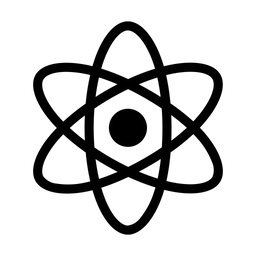
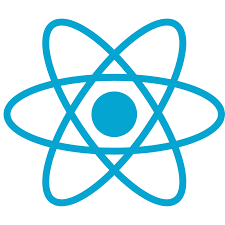
a5 JavaScript sp22

diff --git a/public/tuiter/ExploreScreen/ExploreComponent.js b/public/tuiter/ExploreScreen/ExploreComponent.js
@@ -2,14 +2,51 @@ import PostSummaryList from "../PostSummaryList/index.js";
 
 const ExploreComponent = () => {
     return(`
-            <div class="row">
-                       <!-- search field and cog -->
-           </div>
-           <ul class="nav mb-2 nav-tabs">
-                      <!-- tabs -->
-           </ul>
-           <!-- image with overlaid text -->
-           ${PostSummaryList()}
+            <div class="row mb-2">
+                <!-- Search Field -->
+                <div class="col-11">
+                    <div class="input-group border rounded-pill bg-white">
+                        <span class="input-group-text bg-transparent border-0">
+                            <label for="search-bar"><i class="fas fa-search"></i></label>
+                        </span>
+                        <input id="search-bar" type="text" placeholder="Search Twitter"
+                            class="form-control rounded-pill border-0 shadow-none">
+                    </div>
+                </div>
+                <!-- Cog Icon -->
+                <div class="col-1 my-auto ms-0">
+                    <a href="explore-settings.html">
+                        <i class="fa fa-cog fa-2x" style="color: rgb(42, 159, 214)"></i>
+                    </a>
+                </div>
+            </div>
+            <!-- Tabs -->
+            <ul class="nav mb-2 nav-tabs">
+                <li class="nav-item">
+                    <a class="nav-link active" href="for-you.html">For you</a>
+                </li>
+                <li class="nav-item">
+                    <a class="nav-link" href="trending.html">Trending</a>
+                </li>
+                <li class="nav-item">
+                    <a class="nav-link" href="news.html">News</a>
+                </li>
+                <li class="nav-item">
+                    <a class="nav-link" href="sports.html">Sports</a>
+                </li>
+                <li class="nav-item d-none d-md-block">
+                    <a class="nav-link" href="entertainment.html">Entertainment</a>
+                </li>
+            </ul>
+            <!-- Image with overlaid text -->
+            <div class="card">
+                <img src="../assets/explore/starship.jpg" class="card-img" alt="SpaceX Starship">
+                <div class="card-img-overlay">
+                    <h4 class="card-title">SpaceX's Starship</h4>
+                </div>
+            </div>
+            <!-- Post Summary List -->
+            ${PostSummaryList()}
     `);
 }
 export default ExploreComponent;

diff --git a/public/tuiter/NavigationSidebar/index.js b/public/tuiter/NavigationSidebar/index.js
@@ -2,8 +2,40 @@ const NavigationSidebar = () => {
     return(`
             <div class="list-group">
                 <a class="list-group-item" href="/">
-                    <i class="fab fa-twitter"></i></a>
-            <!-- continue the rest of the list -->
+                    <i class="fab fa-twitter"></i>
+                </a>
+                <a class="list-group-item" href="/">
+                    <i class="fa fa-home"></i> 
+                    <span class="d-none d-xl-inline-block">Home</span>
+                </a>
+                <a class="list-group-item" href="/">
+                    <i class="fa fa-hashtag"></i>
+                    <span class="d-none d-xl-inline-block">Explore</span>
+                </a>
+                <a class="list-group-item" href="/">
+                    <i class="fa fa fa-bell"></i>
+                    <span class="d-none d-xl-inline-block">Notifications</span>
+                </a>
+                <a class="list-group-item" href="/">
+                    <i class="fa fa-envelope"></i>
+                    <span class="d-none d-xl-inline-block">Messages</span>
+                </a>
+                <a class="list-group-item" href="/">
+                    <i class="fa fa-bookmark"></i>
+                    <span class="d-none d-xl-inline-block">Bookmarks</span>
+                </a>
+                <a class="list-group-item" href="/">
+                    <i class="fa fa-list"></i>
+                    <span class="d-none d-xl-inline-block">Lists</span>
+                </a>
+                <a class="list-group-item" href="/">
+                    <i class="fa fa-user"></i>
+                    <span class="d-none d-xl-inline-block">Profile</span>
+                </a>
+                <a class="list-group-item" href="/">
+                    <i class="fa fa-ellipsis-h"></i>
+                    <span class="d-none d-xl-inline-block">More</span>
+                </a>
             </div>
             <div class="d-grid mt-2">
                 <a href="tweet.html"

diff --git a/public/tuiter/PostSummaryList/posts.js b/public/tuiter/PostSummaryList/posts.js
@@ -1,5 +1,5 @@
 export default [
-    { topic: 'Web Development', userName: 'ReactJS', time: '2h', title: 'React.js is a component based front end library that makes it very easy to build Single Page Applications or SPAs', image: '../../images/react-blue.png'},
-    {   topic: '', userName: 'JavaScript', time: '1 day', title: 'JavaScript is programming language that can run on browsers as well as desktops', image: '../../images/js.png', tweets: '123K', },
-    {   topic: 'Web Development', userName: '', title: 'jQuery', time: 'last week', image: '../../images/jquery.png', tweets: '122K', },
-    {   topic: 'Web Development', userName: 'NodeJS', title: '', time: 'last month', image: '../../images/node.png', tweets: '120K', }, ];
+    { topic: 'Web Development', userName: 'ReactJS', time: '2h', title: 'React.js is a component based front end library that makes it very easy to build Single Page Applications or SPAs', image: '../assets/explore/reactjs.png'},
+    { topic: '', userName: 'JavaScript', time: '1 day', title: 'JavaScript is programming language that can run on browsers as well as desktops', image: '../assets/explore/javascript.png', tweets: '123K', },
+    { topic: 'Web Development', userName: '', title: 'jQuery', time: 'last week', image: '../assets/explore/jquery.png', tweets: '122K', },
+    { topic: 'Web Development', userName: 'NodeJS', title: '', time: 'last month', image: '../assets/explore/nodejs.jpg', tweets: '120K', }, ];

diff --git a/public/tuiter/PostSummaryList/PostSummaryItem.js b/public/tuiter/PostSummaryList/PostSummaryItem.js
@@ -1,11 +1,24 @@
-/* 
-    {
-     "topic": "Web Development",    "userName": "ReactJS",    "time": "2h",    "image": "../../images/react-blue.png",
-     "title": "React.js is a component based front end library that makes it very easy to build Single Page Applications or SPAs",
-    },
-*/
-
 const PostSummaryItem = (post) => {
-    return;
+    let { topic, userName, time, image, title, tweets } = post;
+    return (`
+        <li class="list-group-item">
+            <div class="row">
+                <div class="col-10 my-auto">
+                    <div class="text-secondary">${topic}</div>
+                    <div>
+                        <span class="wd-font-bold">${userName} <i class="fa fa-check-circle"></i></span>
+                        <span class="text-secondary">- ${time}</span>
+                    </div>
+                    <div class="wd-font-bold">
+                        ${title}
+                    </div>
+                    <div class="text-secondary">${tweets ? `${tweets} Tweets`: ''}</div>
+                </div>
+                <div class="col-2 my-auto">
+                    <img src="${image}" class="main-post-content-img img-fluid rounded" alt="${userName} post image">
+                </div>
+            </div>
+        </li>
+    `);
 }
 export default PostSummaryItem;

diff --git a/public/tuiter/WhoToFollowList/WhoToFollowListItem.js b/public/tuiter/WhoToFollowList/WhoToFollowListItem.js
@@ -1,6 +1,26 @@
-// {   avatarIcon: '../../images/virgin.png', userName: 'Virgin Galactic', handle: 'virgingalactic', },
-
 const WhoToFollowListItem = (who) => {
-    return;
+    let { avatarIcon, handle, userName } = who;
+    return (`
+        <li class="list-group-item">
+            <div class="row">
+                <div class="col-2 my-auto">
+                    <img src="${avatarIcon}" class="who-to-follow-img rounded-circle img-fluid" alt="${userName} avatar icon">
+                </div>
+                <div class="col-6 col-xxl-7 col-xl-6 my-auto">
+                    <div class="text-nowrap wd-font-bold">
+                        ${userName} <i class="fa fa-check-circle"></i> 
+                    </div>
+                    <div>
+                        @${handle}
+                    </div>
+                </div>
+                <div class="col-4 col-xxl-3 col-xl-4 my-auto btn-group">
+                    <button class="btn btn-primary rounded-pill">
+                        <span>Follow</span>
+                    </button>
+                </div>
+            </div>
+        </li>
+    `);
 }
 export default WhoToFollowListItem;

diff --git a/public/tuiter/WhoToFollowList/who.js b/public/tuiter/WhoToFollowList/who.js
@@ -1,13 +1,13 @@
 export default [
-    {   avatarIcon: '../../images/java.png',
+    {   avatarIcon: '../assets/explore/java.png',
         userName: 'Java', handle: 'Java', },
-    {   avatarIcon: '../../images/relativity.jpeg',
+    {   avatarIcon: '../assets/explore/relativity-space.png',
         userName: 'Relativity Space',
         handle: 'relativityspace', },
-    {   avatarIcon: '../../images/virgin.png',
+    {   avatarIcon: '../assets/explore/virgin-galactic.png',
         userName: 'Virgin Galactic',
         handle: 'virgingalactic', },
-    {   avatarIcon: '../../images/nasa.png',
+    {   avatarIcon: '../assets/explore/nasa.png',
         userName: 'NASA', handle: 'NASA', },
-    {   avatarIcon: '../../images/tesla.png',
+    {   avatarIcon: '../assets/explore/tesla.png',
         userName: 'Tesla', handle: 'Tesla', }, ];

diff --git a/public/tuiter/ExploreScreen/ExploreScreen.js b/public/tuiter/ExploreScreen/ExploreScreen.js
@@ -5,13 +5,15 @@ import WhoToFollowList from "../WhoToFollowList/index.js";
 (function ($) {
     $('#wd-explore').append(`
         <div class="row mt-2">
-        <div class="col-2 col-md-2 col-lg-1 col-xl-2">
-            ${NavigationSidebar()}
-        </div>
-            ${ExploreComponent()}
-        <div class="d-sm-none d-md-none d-lg-block col-lg-4 col-xl-4">
-            ${WhoToFollowList()}
-        </div>
+            <div class="col-2 col-xl-2 col-lg-1">
+                ${NavigationSidebar()}
+            </div>
+            <div class="col-10 col-xl-6 col-lg-7">
+                ${ExploreComponent()}
+            </div>
+            <div class="col-4 d-none d-lg-block">
+                ${WhoToFollowList()}
+            </div>
         </div>
     `);
 })($);

diff --git a/public/tuiter/explore.html b/public/tuiter/explore.html
@@ -11,8 +11,8 @@
     <title>Explore</title>
 </head>
 <body>
-    <div class="container mt-3">
-        <div class="row">
+    <div class="container">
+        <div class="row mt-3">
             <!-- Navigations (Left) Column -->
             <div class="col-2 col-xl-2 col-lg-1">
                 <div class="list-group mb-2">
@@ -174,7 +174,7 @@
                                     Java <i class="fa fa-check-circle"></i> 
                                 </div>
                                 <div>
-                                    @Java</span>
+                                    @Java
                                 </div>
                             </div>
                             <div class="col-xl-3 col-lg-4 my-auto btn-group">

diff --git a/public/tuiter/ExploreScreen/explore.html b/public/tuiter/ExploreScreen/explore.html
@@ -1,8 +1,9 @@
 <!DOCTYPE html>
 <html lang="en">
 <head>
-    <link href="../../vendors/bootstrap/cyborg/bootstrap.min.css" rel="stylesheet"/>
     <link href="../../vendors/bootstrap/bootstrap-5.1.3-dist/css/bootstrap.min.css" rel="stylesheet"/>
+    <link href="../../vendors/bootstrap/cyborg/bootstrap.min.css" rel="stylesheet"/>
+    <link href="../css/index.css" rel="stylesheet"/>
     <link href="../css/explore.css" rel="stylesheet"/>
     <link href="../../vendors/fontawesome/fontawesome-free-5.15.4-web/css/all.css" rel="stylesheet"/>
     <script src="../../vendors/jquery-3.6.0.min.js"></script>

diff --git a/public/tuiter/WhoToFollowList/index.js b/public/tuiter/WhoToFollowList/index.js
@@ -4,7 +4,10 @@ import who from "./who.js"
 const WhoToFollowList = () => {
     return (`
             <ul class="list-group">
-            <!-- continue here -->
+                <li class="list-group-item">
+                    Who to follow
+                </li>
+                ${who.map(w => WhoToFollowListItem(w)).join('')}
             </ul>
         `); 
 }

diff --git a/public/tuiter/PostSummaryList/index.js b/public/tuiter/PostSummaryList/index.js
@@ -4,7 +4,7 @@ import posts from "./posts.js"
 const PostSummaryList = () => {
     return (`
             <ul class="list-group">
-            <!-- continue here -->
+                ${posts.map(p => PostSummaryItem(p)).join('')}
             </ul>
         `); 
 }

diff --git a/public/tuiter/css/explore.css b/public/tuiter/css/explore.css
@@ -19,3 +19,7 @@
     font-size: 2em;
     font-weight: bold;
 }
+
+.fa-search {
+    color: gray;
+}
